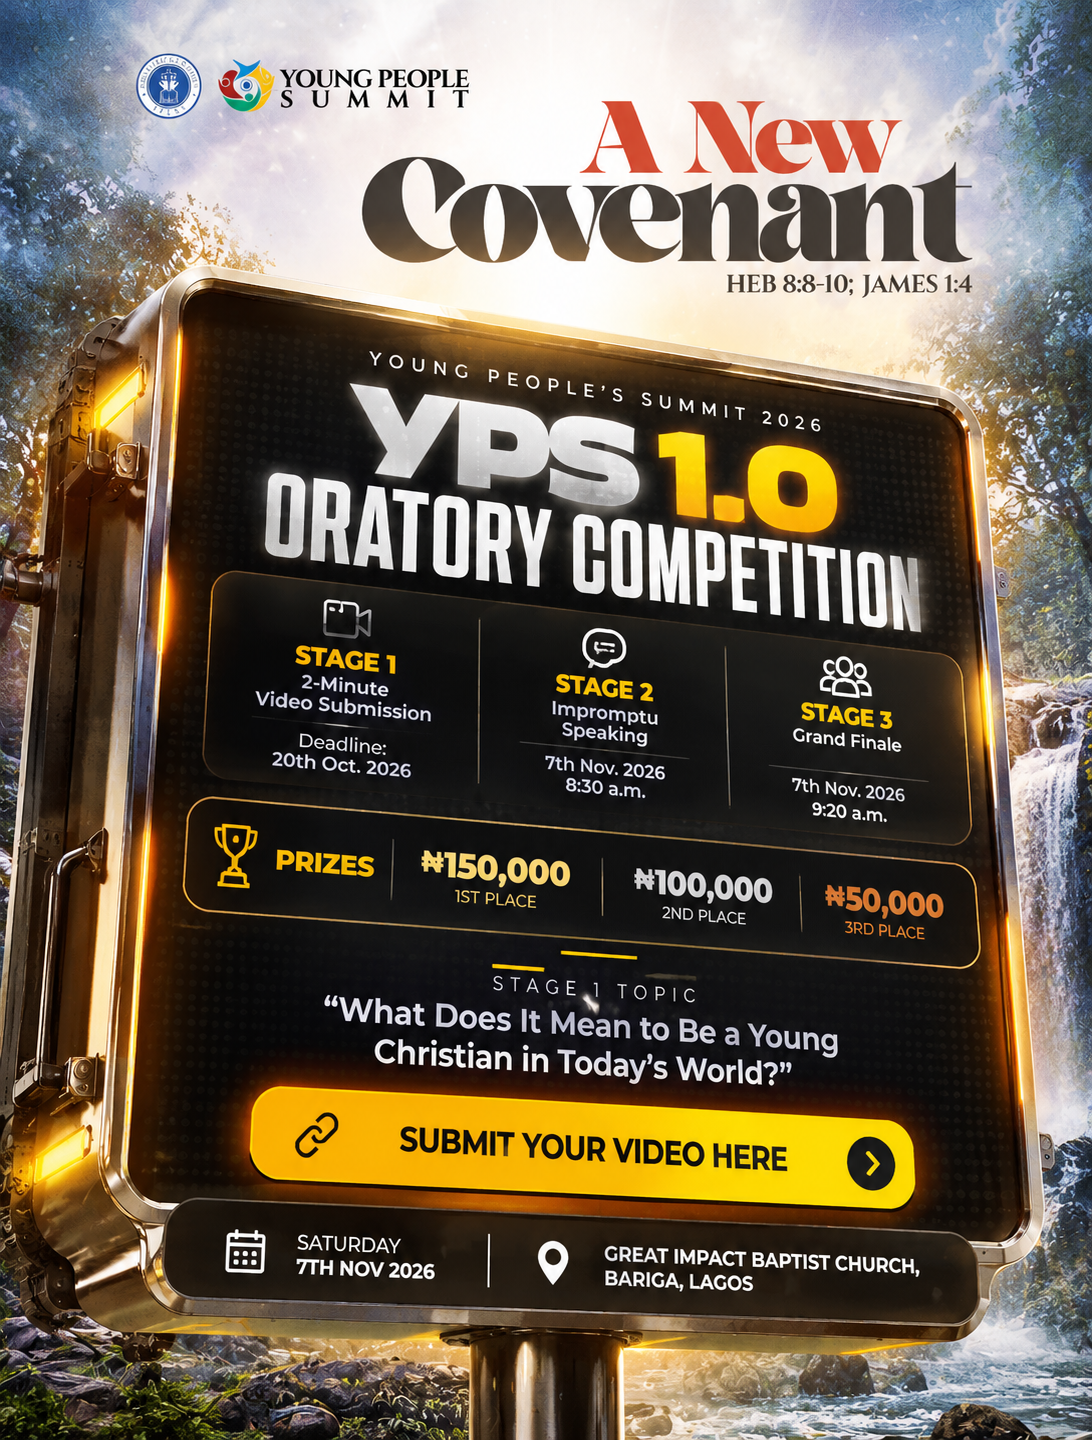
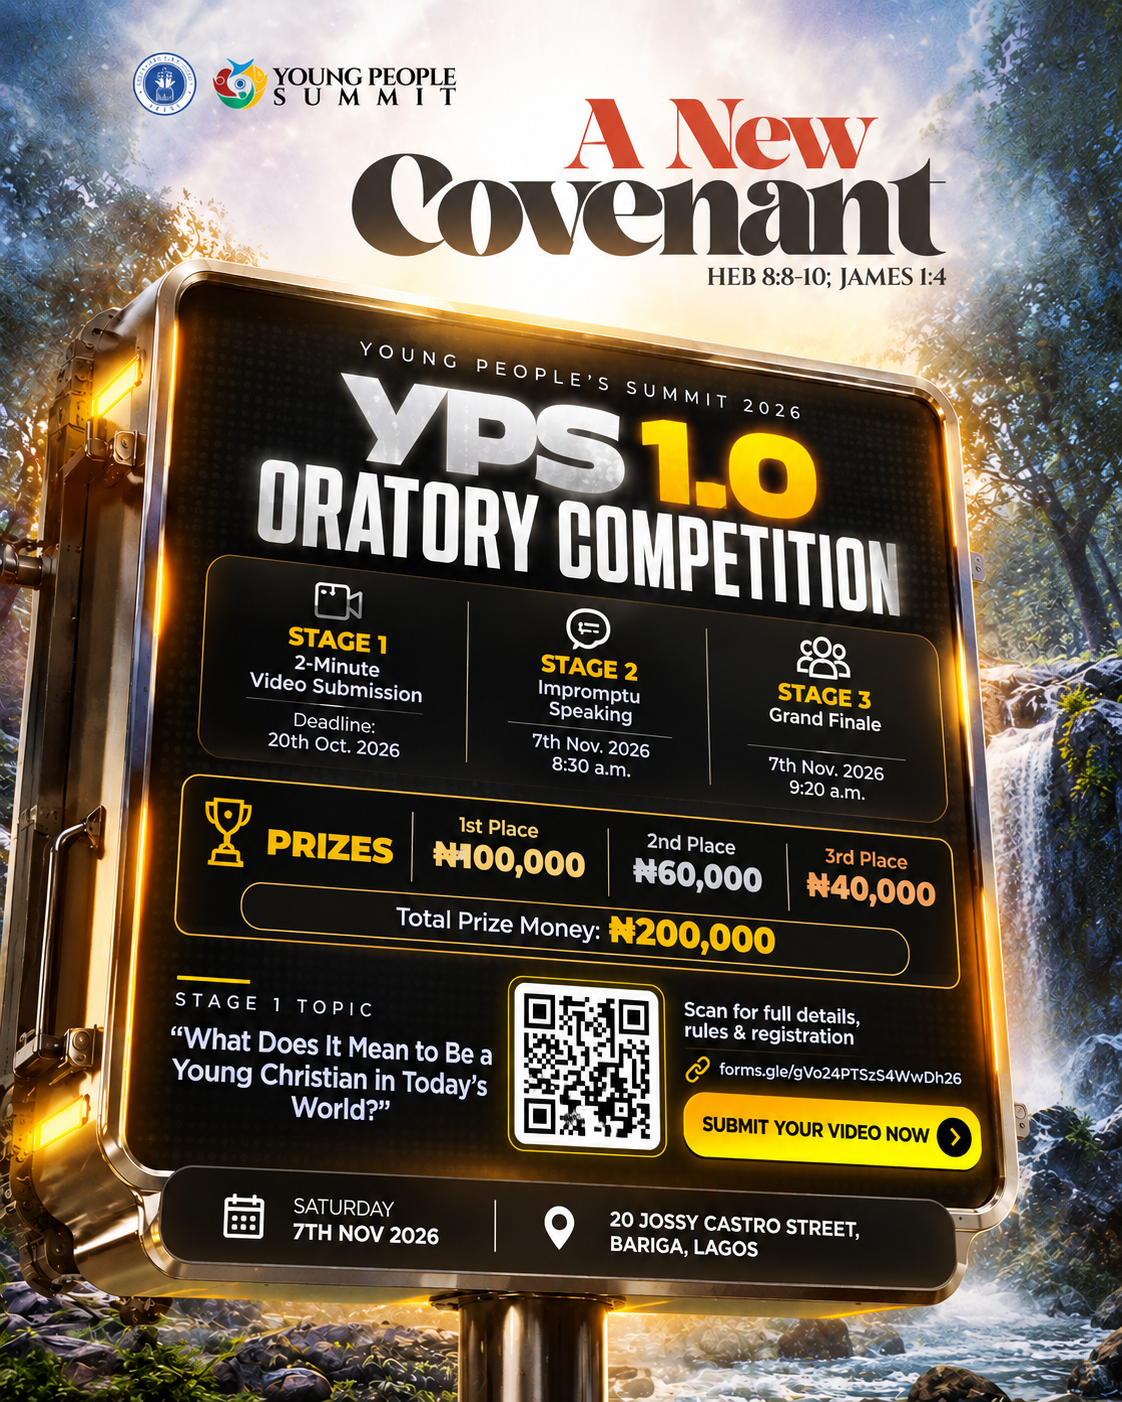
Update oratory prizes and competition flyer

diff --git a/yps-app/app/page.tsx b/yps-app/app/page.tsx
@@ -479,7 +479,7 @@ export default function YPSLandingPage() {
               </span>
               <h3 className="font-mortend text-xl font-black uppercase">ORATORY SESSION</h3>
               <p className="text-xs font-bold text-black/80 mt-2 leading-relaxed">
-                Submit a 2-minute video by 20 October 2026. Compete for prizes of ₦150,000, ₦100,000, and ₦50,000.
+                Submit a 2-minute video by 20 October 2026. Compete for prizes of ₦100,000, ₦60,000, and ₦40,000 — ₦200,000 in total.
               </p>
             </div>
 
@@ -587,9 +587,10 @@ export default function YPSLandingPage() {
             <p className="text-[#E5A93C] font-black uppercase">Stage 1 topic</p>
             <h3 className="text-xl sm:text-2xl font-bold">“What Does It Mean to Be a Young Christian in Today’s World?”</h3>
             <div className="flex flex-wrap justify-center gap-6 pt-4">
-              <p><strong className="text-[#E5A93C] text-2xl">₦150,000</strong><br />1st place</p>
-              <p><strong className="text-[#E5A93C] text-2xl">₦100,000</strong><br />2nd place</p>
-              <p><strong className="text-[#E5A93C] text-2xl">₦50,000</strong><br />3rd place</p>
+              <p><strong className="text-[#E5A93C] text-2xl">₦100,000</strong><br />1st place</p>
+              <p><strong className="text-[#E5A93C] text-2xl">₦60,000</strong><br />2nd place</p>
+              <p><strong className="text-[#E5A93C] text-2xl">₦40,000</strong><br />3rd place</p>
+              <p className="col-span-full font-bold">Total prize money: ₦200,000</p>
             </div>
           </div>
           <p className="font-bold">Great Impact Baptist Church, Bariga, Lagos. Oratory participants: Stage 2 begins at 8:30 a.m., before the summit’s 9:00 a.m. start.</p>
@@ -605,8 +606,8 @@ export default function YPSLandingPage() {
             </ul>
           </div>
           <a href="https://forms.gle/gVo24PTSzS4WwDh26" target="_blank" rel="noopener noreferrer" className="inline-flex items-center justify-center border-4 border-black bg-[#111836] text-white px-6 py-4 font-black uppercase shadow-[5px_5px_0px_#000] hover:bg-[#0A0F24]">Register &amp; submit your video →</a>
-          <p className="text-sm">Oratory entries use a separate form from free summit registration.</p>
-          <a href="/oratory-poster.png" target="_blank" rel="noopener noreferrer" className="inline-block font-black underline">View competition poster →</a>
+          <p className="text-sm">Use the form above for full competition details, rules, registration, and Stage 1 video submission. Oratory entries are separate from free summit registration.</p>
+          <a href="/oratory-poster.png?v=20261006" target="_blank" rel="noopener noreferrer" className="inline-block font-black underline">View competition poster →</a>
         </div>
       </section>
 

diff --git a/yps-app/app/faq/page.tsx b/yps-app/app/faq/page.tsx
@@ -34,7 +34,7 @@ export default function FaqPage() {
     },
     {
       q: 'What is the Oratory Session?',
-      a: 'The YPS 1.0 Oratory Competition begins with a 2-minute video on “What Does It Mean to Be a Young Christian in Today’s World?” Submit by 20 October 2026. Stage 2 (impromptu speaking) is on 7 November at 8:30 a.m. WAT, followed by the grand finale at 9:20 a.m. Prizes: ₦150,000, ₦100,000, and ₦50,000 for first, second, and third place. A maximum of 2 contestants may enter per church or fellowship. No slides or visual aids are allowed. Use the Register & submit your video button in the homepage Oratory Competition section.',
+      a: 'The YPS 1.0 Oratory Competition begins with a 2-minute video on “What Does It Mean to Be a Young Christian in Today’s World?” Submit by 20 October 2026. Stage 2 (impromptu speaking) is on 7 November at 8:30 a.m. WAT, followed by the grand finale at 9:20 a.m. Prizes: ₦100,000, ₦60,000, and ₦40,000 for first, second, and third place, totalling ₦200,000. A maximum of 2 contestants may enter per church or fellowship. No slides or visual aids are allowed. Use the Register & submit your video button in the homepage Oratory Competition section.',
     },
     {
       q: 'How do I check in on the summit day?',
